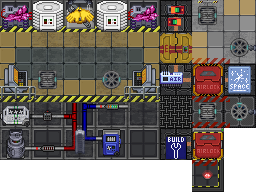
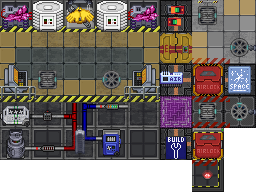
fix ship pics

Changed region(s): [[0.625, 0.4375, 0.75, 0.7188]]

diff --git a/tools/ship_previews/test_generate_ship_previews.py b/tools/ship_previews/test_generate_ship_previews.py
@@ -1,0 +1,72 @@
+import re
+import unittest
+
+from PIL import Image, ImageChops
+
+import generate_ship_previews as previews
+
+
+def map_with_window(window_path):
+    """A window beside another window and a shuttle wall."""
+    dmm = previews.Dmm.__new__(previews.Dmm)
+    dmm.width = dmm.height = 3
+    dmm.grid = {(x, y): "floor" for x in range(1, 4) for y in range(1, 4)}
+    dmm.grid.update({(2, 2): "window", (2, 3): "neighbor", (3, 2): "wall"})
+    dmm.key_paths = {
+        "floor": ["/turf/open/floor/plating"],
+        "window": [window_path, "/turf/open/floor/plating"],
+        "neighbor": ["/obj/structure/window/reinforced/shuttle", "/turf/open/floor/plating"],
+        "wall": ["/turf/closed/wall/mineral/titanium"],
+    }
+    return dmm
+
+
+class WindowSpawnerTests(unittest.TestCase):
+    def test_spawners_match_runtime_spawn_lists(self):
+        source = (previews.REPO_ROOT / "code/game/objects/effects/spawners/structure.dm").read_text()
+        for spawner, window in previews.WINDOW_SPAWNERS.items():
+            with self.subTest(spawner=spawner):
+                definition = re.search(r"^" + re.escape(spawner) + r"\n((?:\t[^\n]*\n)*)", source, re.M)
+                self.assertIsNotNone(definition)
+                spawn_list = re.search(r"spawn_list = list\(([^\n]*)\)", definition.group(1))
+                self.assertIsNotNone(spawn_list)
+                self.assertIn(window, spawn_list.group(1).split(", "))
+
+    def test_spawners_render_like_placed_windows(self):
+        background = Image.new("RGBA", (96, 96), (40, 40, 40, 255))
+        for spawner, window in previews.WINDOW_SPAWNERS.items():
+            with self.subTest(spawner=spawner):
+                expected = previews.apply_smoothing_fixes(map_with_window(window), background, background)
+                actual = previews.apply_smoothing_fixes(map_with_window(spawner), background, background)
+                self.assertIsNone(ImageChops.difference(expected, actual).getbbox(alpha_only=False))
+                window_box = (32, 32, 64, 64)
+                self.assertIsNotNone(ImageChops.difference(
+                    actual.crop(window_box), background.crop(window_box),
+                ).getbbox(alpha_only=False))
+
+    def test_spawners_join_windows_and_frame_shuttle_walls(self):
+        dmm = map_with_window("/obj/effect/spawner/structure/window/reinforced/shuttle")
+        turfs, _, windows = previews.build_join_sets(dmm)
+        self.assertEqual(previews.junction_at(2, 2, windows["shuttle_window"]), 1)
+        self.assertEqual(previews.junction_at(3, 2, turfs["shuttle_wall"]), 8)
+        self.assertNotIn((2, 2), turfs["wall"])
+
+    def test_indestructible_spawner_inherits_shuttle_glass(self):
+        self.assertEqual(
[1 lines of base64/hex data omitted]
+            previews.smooth_obj_entry("/obj/structure/window/reinforced/shuttle/indestructible"),
+        )
+
+    def test_directional_windows_do_not_get_fulltile_glass(self):
+        for path in (
+            "/obj/effect/spawner/structure/window/hollow",
[1 lines of base64/hex data omitted]
+            "/obj/structure/window/reinforced/spawner/directional/north",
+            "/obj/effect/spawner/structure/windowless",
+        ):
+            with self.subTest(path=path):
+                self.assertIsNone(previews.smooth_obj_entry(path))
+
+
+if __name__ == "__main__":
+    unittest.main()

diff --git a/tools/ship_previews/generate_ship_previews.py b/tools/ship_previews/generate_ship_previews.py
@@ -113,6 +113,23 @@ SMOOTH_OBJS = {
     "/obj/structure/window/bronze/fulltile": ("icons/obj/smooth_structures/clockwork_window.dmi", "clockwork_window", "bronze_window"),
 }
 
+# dmm-tools expands these spawners into grilles and windows before rendering,
+# but our repair pass reads the original map paths. Resolve the window from
+# each spawn_list in code/game/objects/effects/spawners/structure.dm so it gets
+# both its glass overlay and the same smoothing joins as a placed window.
+WINDOW_SPAWNERS = {
+    "/obj/effect/spawner/structure/window": "/obj/structure/window/fulltile",
+    "/obj/effect/spawner/structure/window/reinforced": "/obj/structure/window/reinforced/fulltile",
+    "/obj/effect/spawner/structure/window/reinforced/tinted": "/obj/structure/window/reinforced/tinted/fulltile",
+    "/obj/effect/spawner/structure/window/bronze": "/obj/structure/window/bronze/fulltile",
+    "/obj/effect/spawner/structure/window/reinforced/shuttle": "/obj/structure/window/reinforced/shuttle",
[1 lines of base64/hex data omitted]
+    "/obj/effect/spawner/structure/window/ice": "/obj/structure/window/reinforced/fulltile/ice",
+    "/obj/effect/spawner/structure/window/survival_pod": "/obj/structure/window/reinforced/shuttle/survival_pod",
+    "/obj/effect/spawner/structure/window/plasma": "/obj/structure/window/plasma/fulltile",
+    "/obj/effect/spawner/structure/window/reinforced/plasma": "/obj/structure/window/reinforced/plasma/fulltile",
+}
+
 # Non-window tiles that also count as joins for a window group
 # (pod windows connect to pod walls/airlocks: SMOOTH_GROUP_SURVIVAL_TITANIUM_POD)
 WINDOW_JOIN_EXTRA = {
@@ -318,8 +335,20 @@ def smooth_turf_at(dmm: Dmm, x: int, y: int):
     return best
 
 
+def resolve_window_spawner(path: str) -> str:
+    """Resolve fulltile spawners; hollow spawners use directional panes."""
+    if path_matches(path, "/obj/effect/spawner/structure/window/hollow"):
+        return path
+    best = max(
+        (prefix for prefix in WINDOW_SPAWNERS if path_matches(path, prefix)),
+        key=len, default=None,
+    )
+    return WINDOW_SPAWNERS[best] if best else path
+
+
 def smooth_obj_entry(path: str):
     """Longest-prefix SMOOTH_OBJS entry for an obj path, or None."""
+    path = resolve_window_spawner(path)
     best = None
     best_len = -1
     for prefix, entry in SMOOTH_OBJS.items():
@@ -352,6 +381,7 @@ def build_join_sets(dmm: Dmm) -> tuple[dict, set, dict]:
     }
     for pos, key in dmm.grid.items():
         for path in dmm.key_paths[key]:
+            path = resolve_window_spawner(path)
             if any(path_matches(path, p) for p in WALL_JOIN_PREFIXES) and not any(
                 path_matches(path, p) for p in WALL_JOIN_EXCLUDE
             ):
